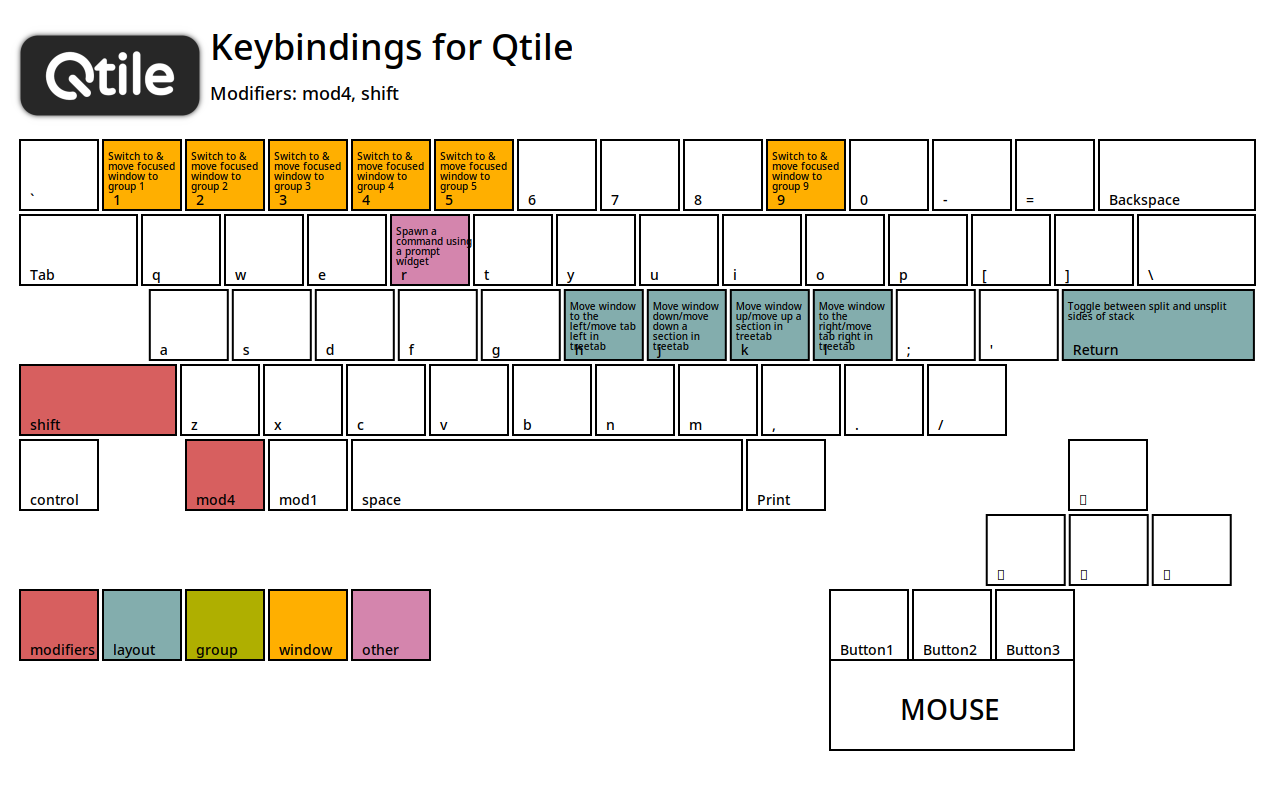
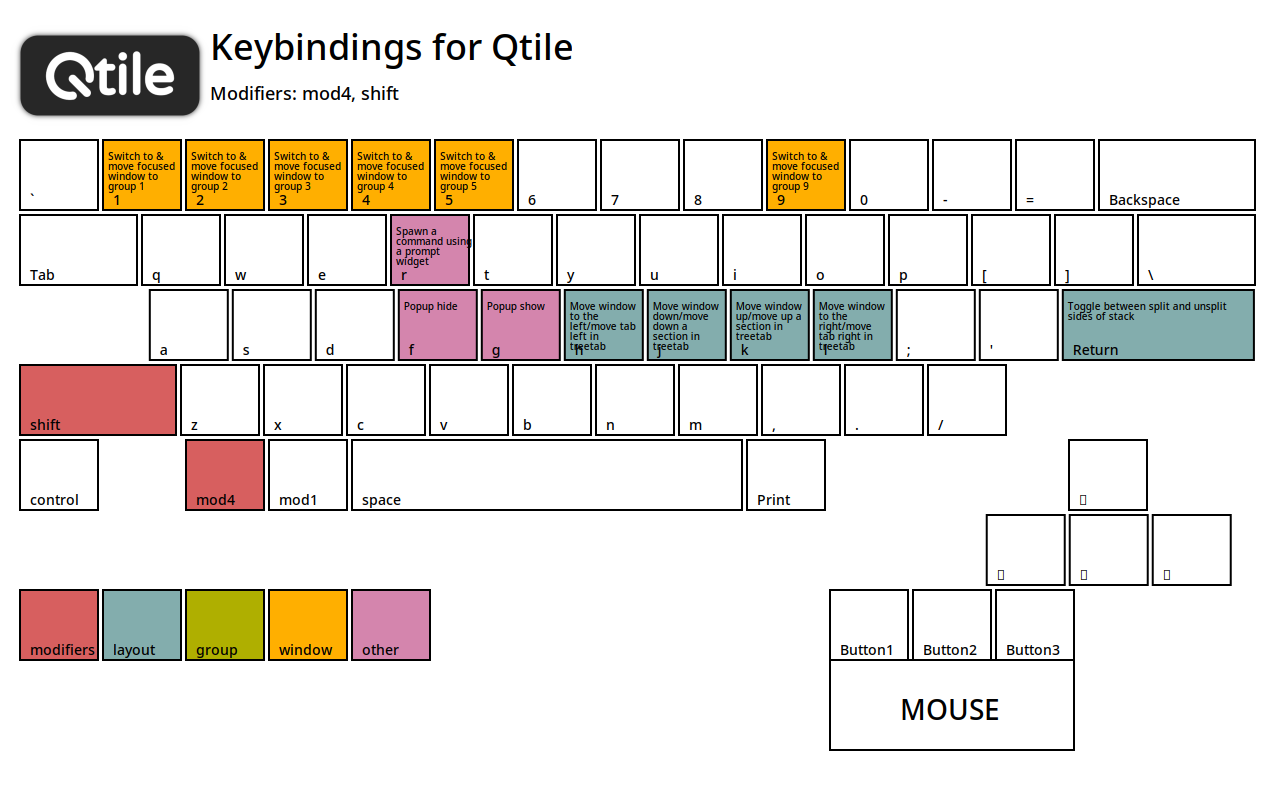
It's not complete yet, but I'll fix it.

Changed region(s): [[0.3125, 0.3438, 0.4375, 0.4688]]

diff --git a/modules/keys.py b/modules/keys.py
@@ -1,5 +1,11 @@
 #
+# INFO: Here are my rules:
+#  Mod4 + Control:            Systematic control of Qtile
+#  Mod4 + Mod1/Alt:           Application Launcher
+#  Mod4 + Mod1/Alt + Control: Qtile's Scratchpad
 #
+# TODO: Some commands may not be accepted depending on the layout.
+# These will be written to the error log.
 #
 
 #
@@ -26,7 +32,7 @@ keys = [
   # Move windows between left/right columns or move up/down in current stack.
   # Moving out of range in Columns layout will create new column.
 
-  # MEMO: .config/qtile · Derek Taylor / Dotfiles · GitLab
+  # INFO: .config/qtile · Derek Taylor / Dotfiles · GitLab
   # https://gitlab.com/dwt1/dotfiles/-/tree/master/.config/qtile?ref_type=heads
 
   Key([mod4, 'shift'], 'h',
@@ -71,10 +77,10 @@ keys = [
   Key([mod4], 'f', lazy.window.toggle_fullscreen(), desc = 'Toggle fullscreen on the focused window'),
   Key([mod4], 't', lazy.window.toggle_floating(),   desc = 'Toggle floating on the focused window'),
 
-  Key([mod4, 'control'], 'r', lazy.reload_config(),             desc = 'Reload the config'),
-  Key([mod4, 'shift'],   'r', lazy.spawncmd(),                  desc = 'Spawn a command using a prompt widget'),
-  Key([mod4, 'control'], 'q', lazy.shutdown(),                  desc = 'Shutdown Qtile'),
-  Key([mod4],            'w', lazy.window.kill(),               desc = 'Kill focused window'),
+  Key([mod4, 'control'], 'r', lazy.reload_config(), desc = 'Reload the config'),
+  Key([mod4, 'shift'],   'r', lazy.spawncmd(),      desc = 'Spawn a command using a prompt widget'),
+  Key([mod4, 'control'], 'q', lazy.shutdown(),      desc = 'Shutdown Qtile, logout'),
+  Key([mod4],            'w', lazy.window.kill(),   desc = 'Kill focused window'),
 
   Key([mod4],            'r', lazy.run_extension(dmenu_normal),   desc = 'Dmenu Run Normal'),
   Key([mod4, 'control'], 'a', lazy.run_extension(dmenu_window),   desc = 'Dmenu All Tasks'),
@@ -82,6 +88,7 @@ keys = [
   Key([mod4, 'control'], 't', lazy.run_extension(dmenu_terminal), desc = 'Dmenu All Terminal'),
 
   Key([mod4], 'Return', lazy.spawn(terminal_main),  desc = 'Launch terminal'),
+  # Key([mod4], 'Return', lazy.spawn('brave') if self.qtile.current_group == "2" else lazy.spawn(terminal_main)),
   Key([mod4], 'space',  lazy.layout.next(),         desc = 'Move window focus to other window'),
   Key([mod4], 'Tab',    lazy.next_layout(),         desc = 'Toggle between layouts'),
 
@@ -116,7 +123,7 @@ keys = [
   Key([mod4, mod1], 'v', lazy.spawn('vlc'),                    desc = 'Run VLC'),
   Key([mod4, mod1], 'x', lazy.spawn('xfce4-settings-manager'), desc = 'Run Xfce4 settings'),
 
-  #MEMO: Not reflected in gen-keybinding-img?
+  ## INFO: Not reflected in gen-keybinding-img?
   ## KeyChord([mod4], 'z', [
   ##     Key([], 'b', lazy.spawn('brave'),     desc = 'Launch Brave'),
   ##     Key([], 'k', lazy.spawn('keepassxc'), desc = 'Launch KeepassXC'),

diff --git a/modules/screens_bar.py b/modules/screens_bar.py
@@ -132,7 +132,7 @@ screens = [
           **powerline,
         ),
 
-        # MEMO: Getting errors when moving across workspaces in application?
+        # INFO: Getting errors when moving across workspaces in application?
         # widget.TaskList(
         #   fontsize = 16,
         #   font = font_set['sub1'],
@@ -167,7 +167,7 @@ screens = [
           background = Theme_Colors['DarkBlue_default'],
         ),
 
-        # MEMO: need `python-psutil`
+        # INFO: need `python-psutil`
         # widget.ThermalSensor(
         #   format = '{temp:.1f}{unit}',
         #   fontsize = 22,
@@ -235,7 +235,7 @@ screens = [
         #   update_interval=60,  # 60秒ごとに更新
         # ),
 
-        # MEMO: NB Systray is incompatible with Wayland, consider using StatusNotifier instead
+        # INFO: NB Systray is incompatible with Wayland, consider using StatusNotifier instead
         # widget.StatusNotifier(),
 
         # widget.Net(
@@ -321,7 +321,7 @@ screens = [
           background = Theme_Colors['DarkBlue_lighten'],
         ),
 
-        # MEMO: WARNING libqtile __init__.py:import_class():L108 Unmet dependencies for 'qtile_extras.widget.syncthing.Syncthing': No module named 'dbus_fast'
+        # INFO: WARNING libqtile __init__.py:import_class():L108 Unmet dependencies for 'qtile_extras.widget.syncthing.Syncthing': No module named 'dbus_fast'
         # widget.Syncthing(
         #   api_key = 'tSfbt9mM6doJgs2R25A66H6ay2gdFkrN',
         #   server = 'http://127.0.0.1:8384/',
@@ -331,16 +331,16 @@ screens = [
         #   show_bar = True,
         # ),
 
-        # MEMO: WARNING libqtile __init__.py:import_class():L108 Unmet dependencies for 'qtile_extras.widget.statusnotifier.StatusNotifier': No module named 'dbus_next'
+        # INFO: WARNING libqtile __init__.py:import_class():L108 Unmet dependencies for 'qtile_extras.widget.statusnotifier.StatusNotifier': No module named 'dbus_next'
         # need `python-pyxdg` and `python-dbus-next`, not `python-dbus-fast`
         # widget.StatusNotifier(
         #   background = Theme_Colors['DarkBlue_lighten'],
         # ),
 
-        # MEMO: WARNING libqtile __init__.py:import_class():L108 Unmet dependencies for 'libqtile.widget.wlan.Wlan': No module named 'iwlib'
+        # INFO: WARNING libqtile __init__.py:import_class():L108 Unmet dependencies for 'libqtile.widget.wlan.Wlan': No module named 'iwlib'
         # widget.Wlan(),
 
-        # MEMO: try!
+        # INFO: try!
         # widget.Bluetooth(),
       ],
 

diff --git a/modules/popup.py b/modules/popup.py
@@ -1,0 +1,69 @@
+#
+# Using widgets in a popup
+#  https://qtile-extras.readthedocs.io/en/v0.27.0/manual/how_to/popup.html#using-widgets-in-a-popup
+#
+
+from libqtile import widget
+from libqtile.config import Key
+from libqtile.lazy import lazy
+#
+from qtile_extras.popup.toolkit import PopupRelativeLayout, PopupWidget
+#
+from modules.keys import keys
+from modules.variables import mod4
+
+
+def show_graphs(qtile):
+  global popup_graph
+
+  # TODO: decoration this
+  controls = [
+    PopupWidget(
+      widget = widget.CPUGraph(),
+      width = 0.45,
+      height = 0.45,
+      pos_x = 0.05,
+      pos_y = 0.05
+    ),
+    PopupWidget(
+      widget = widget.NetGraph(),
+      width = 0.45,
+      height = 0.45,
+      pos_x = 0.5,
+      pos_y = 0.05
+    ),
+    PopupWidget(
+      widget = widget.MemoryGraph(),
+      width = 0.9,
+      height = 0.45,
+      pos_x = 0.05,
+      pos_y = 0.5
+    )
+  ]
+
+  popup_graph = PopupRelativeLayout(
+    qtile,
+    width = 1000,
+    height = 200,
+    controls = controls,
+    background = "00000060",
+    initial_focus = None,
+    close_on_click = False
+  )
+
+  popup_graph.show(centered = True)
+
+# TODO: toggle popup
+# TODO: control z order ?
+def hide_graphs(qtile):
+  popup_graph.hide()
+
+
+keys.extend([
+  Key([mod4, 'shift'], 'g', lazy.function(show_graphs), desc = 'Popup show'),
+  Key([mod4, 'shift'], 'f', lazy.function(hide_graphs), desc = 'Popup hide')
+])
+
+
+##
+

diff --git a/modules/dmenu.py b/modules/dmenu.py
@@ -5,6 +5,7 @@
 
 #
 from libqtile import extension
+from libqtile.lazy import lazy
 #
 from theme_colors import Theme_Colors
 #
@@ -35,14 +36,19 @@ dmenu_normal = extension.DmenuRun(
 
 dmenu_power = extension.CommandSet(
   commands = {
-    'Shutdown': 'systemctl poweroff',
-    'Reboot':   'systemctl reboot',
-
-    # TODO: Logout does not work?
-    # "Lock": "betterlockscreen -l",
-    # "Hibernate": "sudo pm-hibernate",
-    # "Suspend": "sudo pm-suspend"
-    # "Logout": lazy.shutdown(),
+    # NOTE: see i3-wm of EndeavourOS
+    'Systemctl:Shutdown':    'systemctl poweroff',
+    'Systemctl:Reboot':      'systemctl reboot',
+    'Systemctl:Suspend':     'systemctl suspend',
+    'Systemctl:Hibernate':   'systemctl hibernate',
+    # NOTE: After the introduction of Xfce4, this system
+    'Xfce4:Screensaver':     'xfce4-screensaver-command -l',
+    'Xfce4:Lock':            'xfce4-screensaver-command -l',
+    #
+    'Qtile:Reboot':          lazy.reload_config(),
+    # NOTE: Implementing logout from LightDM is difficult for me
+    # Therefore, `lazy.shutdown()` is the de facto logout?
+    'Qtile:Shutdown/logout': lazy.shutdown(),
   },
 
   **dmenu_setting,

diff --git a/modules/floating.py b/modules/floating.py
@@ -12,7 +12,7 @@ from modules.variables import terminal_sub1, terminal_sub8, terminal_sub9
 from theme_colors import Theme_Colors
 
 
-# MEMO: xprop | grep WM_CLASS
+# INFO: xprop | grep WM_CLASS
 
 floating_layout = layout.Floating(
   border_width = 1,
@@ -30,7 +30,7 @@ floating_layout = layout.Floating(
     Match(wm_class = 'Xfce4-about'),
     Match(wm_class = 'Ristretto'),
 
-    # MEMO: This is bad pattern
+    # INFO: This is bad pattern
     #  Match(wm_class = 'Xfce4-terminal'),
 
     # Match(wm_class = 'Mousepad'),

diff --git a/modules/groups.py b/modules/groups.py
@@ -17,11 +17,11 @@ import re
 
 
 groups = [
-  # MEMO: xprop | grep WM_CLASS
-  # MEMO: and using 2nd argument
+  # INFO: xprop | grep WM_CLASS
+  # INFO: and using 2nd argument
 
   Group(name = '1', position = 1, label = '1.terminal',
-    # MEMO: That pattern is OK, but my layouts config does not apply.
+    # INFO: That pattern is OK, but my layouts config does not apply.
     # layouts = [layout.VerticalTile(), layout.TreeTab()],
     # layouts = ['verticaltile', 'max'],
     layout = 'verticaltile',

diff --git a/config.py b/config.py
@@ -31,7 +31,8 @@ from modules.hooks import hook
 from modules.layouts import layouts
 from modules.screens_bar import screens
 from modules.floating import floating_layout
-from modules.dropdowns import dropdowns
+from modules.dropdowns import dropdowns, keys
+from modules.popup import keys
 from modules.mouse import mouse
 
 

diff --git a/modules/Theme_Colors_EndeavourOS_Xfce4.py b/modules/Theme_Colors_EndeavourOS_Xfce4.py
@@ -8,7 +8,7 @@
 # #08052B #221F45 #3B385E #555278 #6E6B91 #8784AA
 # https://www.colors.tools/lighten-and-darken/
 
-# MEMO: Transparent setting add '00' is completely transparentm 'ff' fully visible  
+# INFO: Transparent setting add '00' is completely transparentm 'ff' fully visible
 
 Theme_Colors = {
   #
